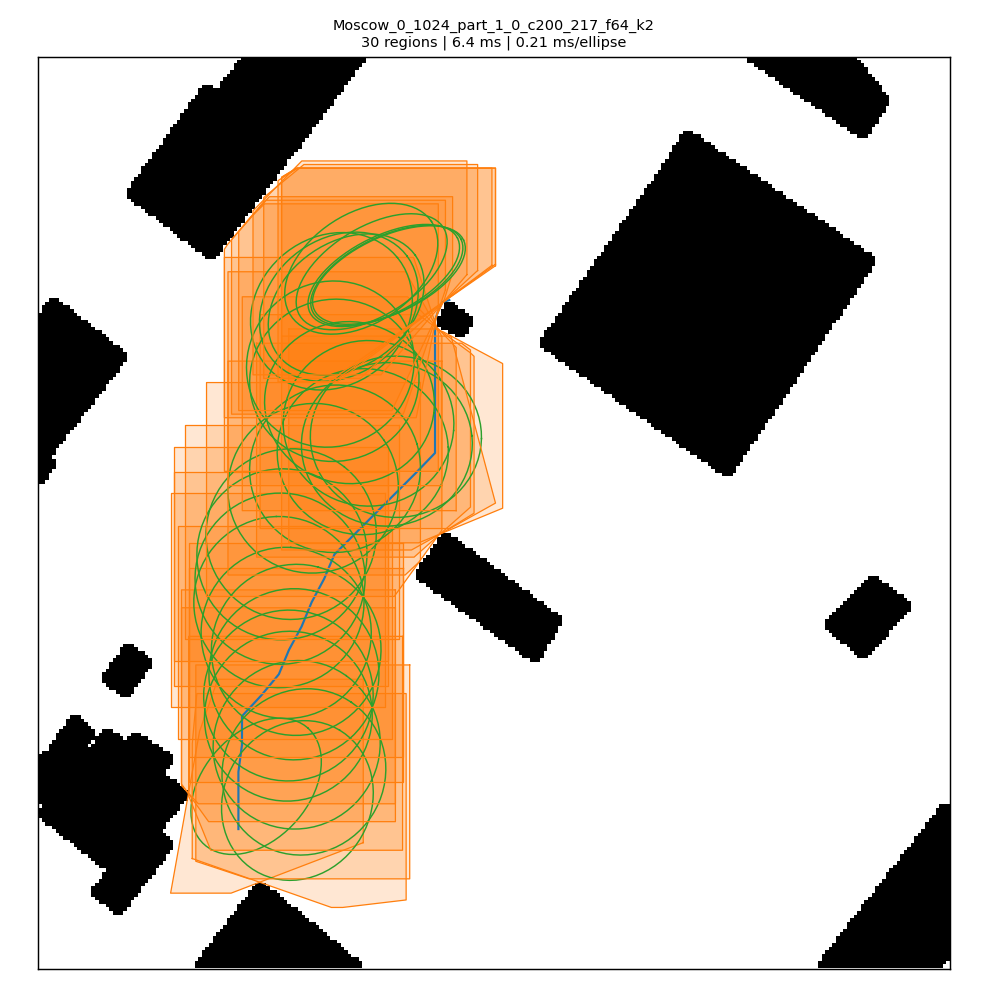
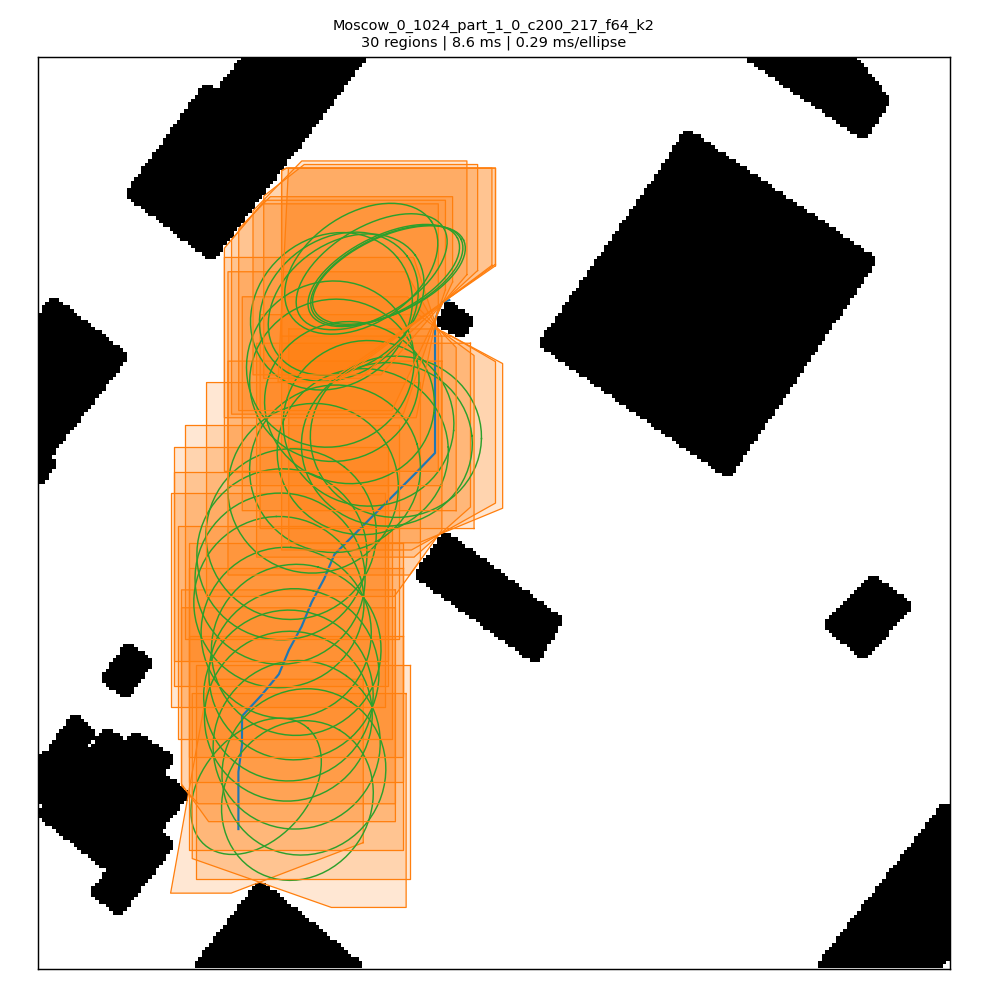
Convex regions: incremental active set (as in Neural-IRIS's C++ kernel) - CPU 3.2x faster
Ported the structure of Neural-IRIS cpp/src/geometry2d.cpp build_safe_halfspaces: after adding
a face, scan the remaining candidates once and drop the ones it excludes, instead of
re-testing every face on every round (O(rounds*P*M) -> O(planes*M)).  For squares the state is
per-corner: slack (N,M,4) = running max of n.corner - b, and a cell is still a violator iff
min over corners <= 0, which is exactly 'one corner satisfies every face'.

Two bugs this exposed and fixed:
- the first incremental version filtered with 'each face has some corner inside', a strict
  superset of the real violator set; planes got spent on cells that were not violating and one
  safe ellipse kept 163 obstacle cells inside its region (caught by the demo's per-ellipse
  audit);
- the infeasibility short-circuit compared against the margin-subtracted offset, so an ellipse
  grazing an obstacle (exactly safe) was declared unsolvable and abandoned - same 163-cell
  leak.  It now compares against the face before the margin.

Measured: CPU 346 -> 109 us/ellipse at batch 256 (GPU 46 us, launch bound, unchanged);
12 trajectories / 302 ellipses: 9.9 ms/trajectory, 0.39 ms/ellipse, 0 violations among
'feasible and ellipse itself safe', same region areas (p50 274 m2).
Directional seeding is now off by default (it cost 8.8 -> 15.8 ms and only moved the raw
violation count among infeasible ellipses).

docs/report.md 15.8 rewritten with the method, the numbers and both pitfalls.

diff --git a/ellipsenet/geometry/polytopes.py b/ellipsenet/geometry/polytopes.py
@@ -271,7 +271,7 @@ def build_polytopes(centres: torch.Tensor, a: torch.Tensor, b: torch.Tensor,
                     region_margin_m: float = 0.02, max_planes: int = 16,
                     window_margin_m: float = 3.0,
                     planes_per_iter: int = 1,
-                    seed_directions: int = 8,
+                    seed_directions: int = 0,
                     refine: bool = True) -> Polytopes:
     """Inflate one convex region per predicted ellipse, all in parallel.
 
@@ -347,6 +347,33 @@ def build_polytopes(centres: torch.Tensor, a: torch.Tensor, b: torch.Tensor,
     ar = torch.arange(N, device=device)
     feasible = torch.ones((N,), dtype=torch.bool, device=device)
 
+    # ---- active set, maintained incrementally exactly like Neural-IRIS's C++ kernel
+    # (``cpp/src/geometry2d.cpp: build_safe_halfspaces`` -> ``next_active``): when a face is
+    # added it is scanned **once** over the obstacles that are still candidates, and the ones
+    # it excludes drop out for good.
+    #
+    # For a square we must be careful: "inside the region" means *one* of its four corners
+    # satisfies *every* face (a corner poking in is already a collision).  So per cell we
+    # carry ``slack`` of shape (N, M, 4): for each corner, the running maximum of
+    # ``n . corner - b`` over all faces added so far.  A cell has a corner inside the region
+    # iff ``min over corners of slack <= 0``, and a new face is folded in with one
+    # ``maximum`` - no re-testing of old faces, no (N,P,M) tensor.
+    def corner_slack(normal: torch.Tensor, offset: torch.Tensor) -> torch.Tensor:
+        """``(N,M,4)``: ``n . corner - b`` for the four corners of every candidate cell."""
+        base = (normal.unsqueeze(1) * cand).sum(-1) - offset[:, None]   # (N,M)
+        wx = half * normal[:, 0].abs()[:, None]                         # (N,1)
+        wy = half * normal[:, 1].abs()[:, None]
+        offs = torch.cat([wx + wy, wx - wy, -wx + wy, -wx - wy], dim=1)  # (N,4)
+        return base.unsqueeze(-1) + offs.unsqueeze(1)
+
+    slack = torch.full((N, cand.shape[1], 4), -float("inf"), dtype=dtype, device=device)
+    for k in range(8):
+        slack = torch.maximum(slack, corner_slack(A[:, k], off[:, k]))
+
+    def still_violating() -> torch.Tensor:
+        """``(N,M)``: the cell has one corner satisfying every face added so far."""
+        return slack.amin(dim=-1) <= 0.0
+
     # ---- seed: one face per angular sector, all sectors in a single step.
     # This is the batched version of the classic "N sectors -> N constraints" start-up: the
     # exact loop below then only has to close the corners between sectors (1-2 rounds
@@ -370,46 +397,49 @@ def build_polytopes(centres: torch.Tensor, a: torch.Tensor, b: torch.Tensor,
         normal = torch.einsum("nij,ndj->ndi", Q, obs - centres[:, None, :])
         normal = normal / normal.norm(dim=-1, keepdim=True).clamp_min(1e-9)
         offset = cell_face(normal, obs, half) - region_margin_m       # (N,D)
-        cuts = ellipse_support(Q.unsqueeze(1), centres.unsqueeze(1), normal) > (offset + 1e-6)
+        cuts = (ellipse_support(Q.unsqueeze(1), centres.unsqueeze(1), normal)
+                > (offset + region_margin_m + 1e-6))
         feasible = feasible & ~(has & cuts).any(dim=1)
         A[:, 8:8 + D] = torch.where(has[..., None], normal, torch.zeros_like(normal))
         off[:, 8:8 + D] = torch.where(has, offset, torch.full_like(offset, BIG))
         n_planes = torch.full((N,), 8 + D, dtype=torch.long, device=device)
+        for d in range(D):                                            # one pass per sector
+            upd = has[:, d]
+            if bool(upd.any()):
+                slack = torch.where(upd[:, None, None],
+                                    torch.maximum(slack, corner_slack(A[:, 8 + d],
+                                                                      off[:, 8 + d])),
+                                    slack)
 
-    # ---- single exact inflation loop.
-    # The overlap test below is the honest one (a square poking one corner into the region
-    # counts), so the loop *terminates only when the region is provably obstacle free* -
-    # that termination condition IS the verification; there is no separate check pass that
-    # could disagree with the construction.
-    # The whole call is latency bound rather than compute bound (a 30-ellipse call and a
-    # 256-ellipse call take the same wall time), so several faces are added per iteration:
-    # fewer iterations is the only thing that actually matters here.
+    # ---- inflation loop: add the face of the closest obstacle still inside, then drop every
+    # obstacle that face already excludes.  The active set is monotonically shrinking and
+    # empty means "no obstacle has a corner inside the region", i.e. it IS the verification.
     for _ in range(P if refine else 0):
-        bad = _overlap_mask(A, off, n_planes, cand, half) & cand_ok
-        any_bad = bad.any(dim=1) & feasible & (n_planes < P)
+        active = still_violating() & cand_ok
+        any_bad = active.any(dim=1) & feasible & (n_planes < P)
         if not bool(any_bad.any()):
             break
-        n_add = int(min(planes_per_iter, P))
-        vals, idxs = torch.topk(bad.float(), k=n_add, dim=1)          # metric-ordered
-        for j in range(n_add):
-            add = any_bad & ((n_planes + j) < P) & (vals[:, j] > 0.5)
-            if not bool(add.any()):
-                continue
-            obs = cand[ar, idxs[:, j]]                                # (N,2)
-            normal = torch.einsum("nij,nj->ni", Q, obs - centres)
-            normal = normal / normal.norm(dim=-1, keepdim=True).clamp_min(1e-9)
-            offset = cell_face(normal, obs, half) - region_margin_m
-            # a face that cuts the ellipse means this ellipse (or this margin) is
-            # infeasible: no obstacle-free region can contain it
-            cuts = ellipse_support(Q, centres, normal) > (offset + 1e-6)
-            feasible = feasible & ~(add & cuts)
-            slot = (n_planes + j).clamp_max(P - 1)
-            A[ar[add], slot[add]] = normal[add]
-            off[ar[add], slot[add]] = offset[add]
-            n_planes = n_planes + add.long()
+        idx = active.float().argmax(dim=1)                            # closest (metric order)
+        obs = cand[ar, idx]                                           # (N,2)
+        normal = torch.einsum("nij,nj->ni", Q, obs - centres)
+        normal = normal / normal.norm(dim=-1, keepdim=True).clamp_min(1e-9)
+        offset = cell_face(normal, obs, half) - region_margin_m
+        # a face that cuts the ellipse means this ellipse (or this margin) is infeasible:
+        # no obstacle-free region can contain it, so stop adding faces for it
+        # infeasible only if the face really cuts the ellipse: compare with the face *before*
+        # the region margin is subtracted, otherwise a merely grazing (but exactly safe)
+        # ellipse is abandoned and keeps leaving obstacle cells unhandled
+        cuts = ellipse_support(Q, centres, normal) > (offset + region_margin_m + 1e-6)
+        feasible = feasible & ~(any_bad & cuts)
+        slot = n_planes.clamp_max(P - 1)
+        A[ar[any_bad], slot[any_bad]] = normal[any_bad]
+        off[ar[any_bad], slot[any_bad]] = offset[any_bad]
+        n_planes = n_planes + any_bad.long()
+        slack = torch.where(any_bad[:, None, None],
+                            torch.maximum(slack, corner_slack(normal, offset)), slack)
 
-    still = (_overlap_mask(A, off, n_planes, cand, half) & cand_ok).any(dim=1)
-    converged = ~(still | _vertex_hits(A[:, :P], off, blocked, res))
+    converged = ~((still_violating() & cand_ok).any(dim=1)
+                  | _vertex_hits(A[:, :P], off, blocked, res))
 
     return Polytopes(A=A, b=off, n_planes=n_planes, converged=converged,
                      n_rounds=(n_planes - 8), center=centres,
@@ -489,6 +519,8 @@ def build_polytopes_serial(centres: np.ndarray, a: np.ndarray, b: np.ndarray,
                      center=torch.cat([p.center for p in parts]),
                      radius=torch.cat([p.radius for p in parts]),
                      feasible=torch.cat([p.feasible for p in parts]))
+
+
 
 
 
